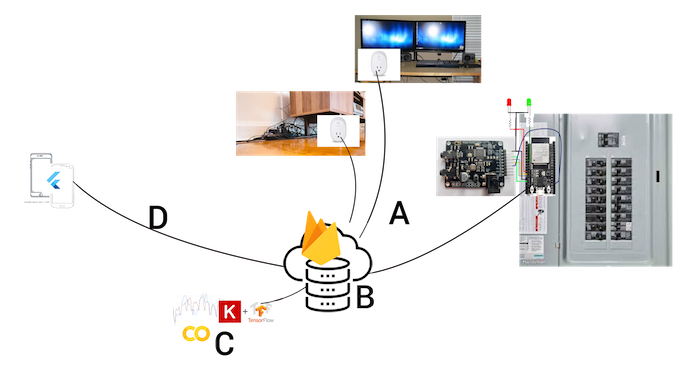
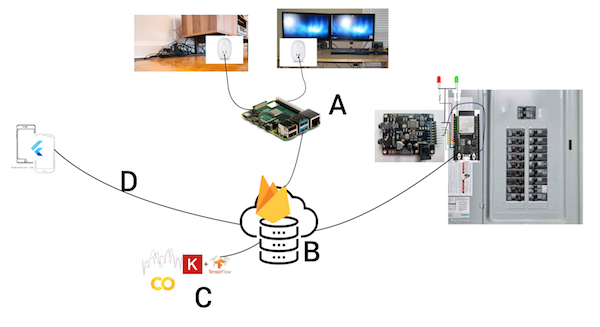
Update.

diff --git a/Home.md b/Home.md
@@ -1,9 +1,20 @@
 # Welcome
 Welcome to the FitHome Wiki. 
-# What FitHome Is
-The FitHome experience reads a homeowner's electricity use and sends these readings to an AI model that gives the busy homeowner easy, personalized tasks they can do to save electricity.  After one month of participating in the FitHome experience, the busy homeowner will change their use of electricity to consistantly use at least 15% less electricity.
-# Audience
-These pages are primarily intended to document the FitHome system to the developer:
-- FitHome app - written in Flutter for iOS and Android Smarthome.  
-- energy monitor - based on John's energy monitor 
-- the database- the intersection between the homeowners, FitHome helpers, electricians.
+# The FitHome Experience
+The FitHome experience runs for one month within a home.  The experience reads a homeowner's electricity use and sends these readings to a database that is read by our FitHome Analysis service.  The FitHome Analysis service learns about a homeowner's electricity use.  The Analysis service studies the power and current sample to optimize personal electricity savings insights.  These insights are displayed by the FitHome Smartphone app.  The Smartphone app will let the homeowner quickly know how much electricity they are using.  The app will also provide personalized insight and guidance that makes it easy for a busy homeowner to save at least 15% of their electricity use.
+# High Level System Components
+![overview](images/Overview/Overview.png)
+## (A and B) Electricity Monitors to DB
+The electricity monitoring hardware includes:
+- An [electricity monitor](ElectricityMonitor.md) within a homeowner's breaker box.  
+- A [PlugE device](PlugE.md) within the home.
+- One or more [TP-Link HS110 Smart Plugs](https://amzn.to/2MFSVmH). 
+  
+The readings are sent by the electricity monitor and the PlugE device to a Firebase RT db (B).  
+## (C) Analysis
+A backend service scoops up the electricity readings.  It uses data analytics and deep learning to provide personalized insights to the homeowner.
+## (D) FitHome App
+The [FitHome App](FitHomeAppExperienceFlow.md) gives the busy homeowner insights into how to quickly and painlessly lower the amount of electricity they use.  As they lower their use, they see the financial and climate change impact they are making.
+
+
+

diff --git a/LeaksAnalysis.md b/LeaksAnalysis.md
@@ -1,9 +1,9 @@
 # Energy Leaks Analysis
-We have many devices that are plugged into sockets.  Most of the time they are not being used.  Yet, when they are not being used they still draw power. A [study by the NRDC](https://www.nrdc.org/resources/home-idle-load-devices-wasting-huge-amounts-electricity-when-not-active-use) found the homes in the study on average wasted nearly 23% of their electricity consumption on devices that were not being used but were using electricity.
+We have many devices that are plugged into our wall sockets.  Most of the time they are not being used, but are still drawing power. A [study by the NRDC](https://www.nrdc.org/resources/home-idle-load-devices-wasting-huge-amounts-electricity-when-not-active-use) found the homes in the study on average wasted nearly 23% of their electricity consumption on devices that were not being used but were using electricity.
 
-The biggest electricity savings impact we can make is in stopping Energy Leaks.  That is why the FitHome app starts here.
+A big electricity savings impact we can make is in stopping Energy Leaks.  That is why the FitHome app starts here.  There are two "sides" to Energy leaks.  One side is the analysis.  The other side are the steps we ask the homeowner to take to understand and fix the leaks.
 
-# Colab notebook
+# Leaks Analysis Exploration
 We chose to evolve our understanding of analyzing leaks using the [FitHome_Leaks.ipynb notebook](https://github.com/BitKnitting/FitHome_Analysis/tree/master/notebooks) we created in Google's Colab.  
 
 [![Open In Colab](https://colab.research.google.com/assets/colab-badge.svg)](http://colab.research.google.com/github/BitKnitting/FitHome_Analysis/blob/master/notebooks/FitHome_Leaks.ipynb)

diff --git a/FitHomeAppExperienceFlow.md b/FitHomeAppExperienceFlow.md
@@ -1,0 +1,18 @@
+# The FitHome Experience Flow
+Through:
+- An app available for ios and android devices.
+- An energy monitor monitoring a home's electricity use.
+- A PlugE device that coordinates monitoring and behaviorial activity within the home.
+- Smart Plugs that control power outlets within a home.
+
+The busy homeowner can make simple changes to save a significant amount of electricity.
+# (1) Download the App
+The homeowner downloads the FitHome app from the Appstore (ios) or Google Play store (Android).
+# (2) Install Devices
+The homeowner fills out the info needed within the app and schedules an appointment for an electrician to come out and install the energy monitor and PlugE device.  The electrician also leaves one Smart Plug that will be used by the homeowner once the monitor has read enough information to generate insights.
+# (3) Learning Phase
+The whole home monitor starts monitoring energy use.  The first milestone is getting a baseline reading.  
+## Baseline Reading
+This [Jupyter notebook](https://colab.research.google.com/github/BitKnitting/FitHome_Analysis/blob/master/notebooks/Baseline.ipynb) documents how the baseline is calculated.  It requires at least 3 days of readings in which there are enough readings to represent 24 hours in the day.
+# (4) Insights
+Once there is enough readings to provide a baseline, the FitHome experience moves from Learning to Insights state.  We have enough readings at this point to focus on areas where we can help the homeowner "trim the fat" from their electricity use.

diff --git a/PlugE.md b/PlugE.md
@@ -3,7 +3,7 @@ This project is called PlugE because of it's focus around the TP-Link HS110 Smar
 
 The purpose of the PlugE project is to collect energy readings from [TP-Link HS110 Smart Plugs](https://amzn.to/2MFSVmH) and send them to a Firebase database project.
 # Hardware/Software
-- [TP-LINK HS110](https://smile.amazon.com/gp/product/B0178IC5ZY/ref=ppx_yo_dt_b_asin_title_o08_s00?ie=UTF8&psc=1)
+- [TP-LINK HS110](https://amzn.to/2WBHPUc)
 - [GadfetReactor pyHS100](https://github.com/GadgetReactor/pyHS100) Python Library 
 - [Raspberry Pi](RaspPi.md)
 # Server
@@ -16,7 +16,7 @@ Follow [these instructions](https://www.tp-link.com/us/support/faq/946/).
 - Put the micro-SD [e.g.: cheap one on Amazon](https://www.amazon.com/gp/product/B004ZIENBA/ref=as_li_ss_tl?ie=UTF8&psc=1&linkCode=sl1&tag=bitknittingwo-20&linkId=923f12067ad3395ed04f043c37d8c39f)  that will hold the Rasp Pi image into an SD Card reader (on our Mac).
 - Format using SD-Formatter.
 - Download a [Rasp Pi image](https://www.raspberrypi.org/downloads/raspbian/)
-- Run [Etcher] to copy the image onto the SD Card.
+- Run Etcher to copy the image onto the SD Card.
 - Add "SSH" file to the root of the image.  We do this by opening a terminal on the boot partition and typing `$touch ssh` 
 - Create the `wpa_supplicant.conf` file and copy to the root of the image.  We used [the step 4 guide in this post](https://desertbot.io/blog/headless-raspberry-pi-3-bplus-ssh-wifi-setup).
 - Put the SD-micro into the Rasp-Pi's micro-SD port

diff --git a/InsightsLeaks.md b/InsightsLeaks.md
@@ -1,0 +1,26 @@
+# Leaks Insights
+
+
+A critical insight is how much electricity is being wasted simply because the device is plugged in.  __Leaking electricity is the electricity that is consumed by TVs, game consoles, monitors, etc. when they are plugged in but not being used.__  
+
+Homes waste about 23% of their total electricity use to devices that are plugged in and not being use.  The Leaks section guides the homeowner through plugging up the leaks. 
+## Leaks Screen
+The homeowner is presented with leaks information personalized to their home's power readings.
+  
+![LeaksPage](images/insights/leaks/LeaksPage.png)  
+
+### Electricity Calculations
+The FitHome Leaks notebook - [![Open In Colab](https://colab.research.google.com/assets/colab-badge.svg)](https://colab.research.google.com/github/BitKnitting/FitHome_Analysis/blob/master/notebooks/FitHome_Leaks_V001.ipynb) - Walks through how the:
+- % of total electricity (in this screen it is 27%)
+- the amount of watts (161w)
+- the amount of kWh/year that is wasted (1400 kWh) 
+are calculated.
+- CO2 equivalence in metric tons.
+- Acres of forest needed to sequester the CO2.
+- Equivalent amount of gas used driving a car.
+- Equivalent CO2 emissions per barrel of oil.
+### FitHome App Code
+The FitHome app has set a listener at the....
+
+# Find Leaks
+When the homeowner taps on the Find Leaks button, 

diff --git a/ElectricityMonitor.md b/ElectricityMonitor.md
@@ -1,5 +1,12 @@
 ### GitHub Location
 [energy monitor firmware GitHub repository](https://github.com/BitKnitting/energy_monitor_firmware)
+# The Electricity Monitor
+The whole home electricity monitor we use to gather power and current readings consists of:
+- [CircuitSetup's Split Single Phase Real Time Whole House Energy Meter (v 1.4)](https://circuitsetup.us/index.php/product/split-single-phase-real-time-whole-house-energy-meter-v1-4/).  
+- an ESP32.
+
+![monitor wiring](images/EnergyMonitorFirmware/monitorWiring.png) 
+
 # Thanks to Those That Went Before
 There is _so much_ prior work that made it easier to evolve the atm90e32 micropython library.  Efforts include:  
 * Tisham Dhar's [atm90e26 Arduino library](https://github.com/whatnick/ATM90E26_Arduino).    
@@ -25,7 +32,7 @@ miso_pin = Pin(12)
 sck_pin = Pin(14)
 cs_pin = 15
 ```
-![monitor wiring](images/EnergyMonitorFirmware/monitorWiring.png)  
+ 
 In addition to SPI wiring, a red and green led - each with a resistor - are wired:
 - red LED on pin 27
 - green LED on pin 32
